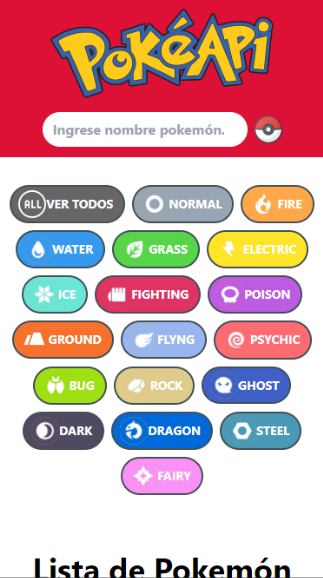
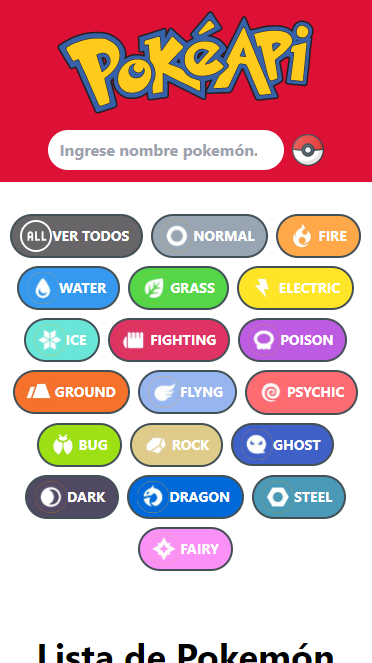
Actualizando README con nueva versión

diff --git a/src/css/estilos.css b/src/css/estilos.css
@@ -588,14 +588,6 @@ video {
   height: 15rem;
 }
 
-.h-80 {
-  height: 20rem;
-}
-
-.h-0 {
-  height: 0px;
-}
-
 .min-h-screen {
   min-height: 100vh;
 }
@@ -604,28 +596,20 @@ video {
   width: 10rem;
 }
 
-.w-60 {
-  width: 15rem;
+.w-44 {
+  width: 11rem;
 }
 
 .w-8 {
   width: 2rem;
 }
 
-.w-full {
-  width: 100%;
-}
-
-.w-44 {
-  width: 11rem;
-}
-
-.w-32 {
-  width: 8rem;
-}
-
 .w-80 {
   width: 20rem;
+}
+
+.w-full {
+  width: 100%;
 }
 
 .max-w-4xl {
@@ -650,10 +634,6 @@ video {
 
 .flex-wrap {
   flex-wrap: wrap;
-}
-
-.place-items-center {
-  place-items: center;
 }
 
 .items-center {
@@ -684,34 +664,17 @@ video {
   border-radius: 0.5rem;
 }
 
-.rounded {
-  border-radius: 0.25rem;
-}
-
 .rounded-t-lg {
   border-top-left-radius: 0.5rem;
   border-top-right-radius: 0.5rem;
-}
-
-.border-2 {
-  border-width: 2px;
 }
 
 .border {
   border-width: 1px;
 }
 
-.border-4 {
-  border-width: 4px;
-}
-
-.border-\[0\.5px\] {
-  border-width: 0.5px;
-}
-
-.border-x-2 {
-  border-left-width: 2px;
-  border-right-width: 2px;
+.border-2 {
+  border-width: 2px;
 }
 
 .border-t-2 {
@@ -734,10 +697,6 @@ video {
 .border-black {
   --tw-border-opacity: 1;
   border-color: rgb(0 0 0 / var(--tw-border-opacity));
-}
-
-.border-\[\] {
-  border-color: ;
 }
 
 .bg-\[\#0069D9\] {
@@ -913,16 +872,6 @@ video {
   line-height: 2.5rem;
 }
 
-.text-sm {
-  font-size: 0.875rem;
-  line-height: 1.25rem;
-}
-
-.text-6xl {
-  font-size: 3.75rem;
-  line-height: 1;
-}
-
 .text-8xl {
   font-size: 6rem;
   line-height: 1;
@@ -933,9 +882,9 @@ video {
   line-height: 1;
 }
 
-.text-7xl {
-  font-size: 4.5rem;
-  line-height: 1;
+.text-sm {
+  font-size: 0.875rem;
+  line-height: 1.25rem;
 }
 
 .font-bold {
@@ -952,6 +901,11 @@ video {
   color: rgb(0 0 0 / var(--tw-text-opacity));
 }
 
+.text-gray-200 {
+  --tw-text-opacity: 1;
+  color: rgb(229 231 235 / var(--tw-text-opacity));
+}
+
 .text-red-600 {
   --tw-text-opacity: 1;
   color: rgb(220 38 38 / var(--tw-text-opacity));
@@ -960,31 +914,6 @@ video {
 .text-white {
   --tw-text-opacity: 1;
   color: rgb(255 255 255 / var(--tw-text-opacity));
-}
-
-.text-neutral-400 {
-  --tw-text-opacity: 1;
-  color: rgb(163 163 163 / var(--tw-text-opacity));
-}
-
-.text-neutral-200 {
-  --tw-text-opacity: 1;
-  color: rgb(229 229 229 / var(--tw-text-opacity));
-}
-
-.text-neutral-100 {
-  --tw-text-opacity: 1;
-  color: rgb(245 245 245 / var(--tw-text-opacity));
-}
-
-.text-gray-300 {
-  --tw-text-opacity: 1;
-  color: rgb(209 213 219 / var(--tw-text-opacity));
-}
-
-.text-gray-200 {
-  --tw-text-opacity: 1;
-  color: rgb(229 231 235 / var(--tw-text-opacity));
 }
 
 @media (min-width: 768px) {

diff --git a/src/js/funciones/funciones.js b/src/js/funciones/funciones.js
@@ -167,7 +167,7 @@ async function mostrarPokemonHTML(dataRecibida) {
     'rounded-t-lg',
     'border',
     'border-solid',
-    'border-black',
+    'border-[#435056]',
     'border-2',
     'w-80',
     'flex',
@@ -287,7 +287,7 @@ async function mostrarPokemonHTMLDetallada(dataRecibida) {
     'rounded-t-lg',
     'border',
     'border-solid',
-    'border-black',
+    'border-[#435056]',
     'border-2',
     'w-80',
     'flex',
@@ -429,14 +429,6 @@ function mostrarCardObtenido(evento) {
     // función que busca por id
     buscarId(id);
   }
-}
-
-// Función para crear y devolver un nuevo elemento de spinner
-function spinner() {
-  const spinner = document.createElement('DIV');
-  // agrego clase de estilo spinner y para centrar x & y
-  spinner.classList.add('loader');
-  return spinner;
 }
 
 export {

diff --git a/README.md b/README.md
@@ -1,8 +1,10 @@
-# PROYECTO POKÉDEX JS (PokéAPI) #
+# PROYECTO POKÉDEX JS (PokéAPI)
+
 ---
+
 **Realizado: Jorge Luis Monzón Morales**
 
-El siguient proyecto consiste en consumir la api pokemón https://pokeapi.co/docs/v2#pokemon , mediante el id y poder hacer busquedas masivas, o por nombre o por tipo, contamos con 18 tipos de los 1008 pokemón que podemos filtrar en el siguiente proyecto, por parte de javascript se utilizo Fetch para manipular la solicitudes y se utilizo async/await de esta manera, las solicitudes y la creación de tarjetas se realizarán de manera secuencial, asegurando que las tarjetas se agreguen al contenedor en el orden correcto. Esto puede ayudar a controlar la sincronización y el orden de las operaciones por la parte de html y css se utilizo el framework CSS de Tailwind con sus clases de utilidades, tecnologias aplicadas:
+El siguient proyecto consiste en consumir la api pokemón https://pokeapi.co/docs/v2#pokemon , mediante el id y poder hacer busquedas masivas, o por nombre o por tipo, contamos con 18 tipos de pokemón que podemos filtrar en el siguiente proyecto, por parte de javascript se utilizo Fetch para manipular la solicitudes y se utilizo async/await de esta manera, las solicitudes y la creación de tarjetas se realizarán de manera secuencial, asegurando que las tarjetas se agreguen al contenedor en el orden correcto. Esto puede ayudar a controlar la sincronización y el orden de las operaciones por la parte de html y css se utilizo el framework CSS de Tailwind con sus clases de utilidades, tecnologias aplicadas:
 
 - HTML
 - CSS
@@ -10,26 +12,35 @@ El siguient proyecto consiste en consumir la api pokemón https://pokeapi.co/doc
 - Tailwind CSS
 - servicio a consumir(https://pokeapi.co/docs/v2#pokemon)
 
-**Modo Escritorio**
----
-![alt text](<modo_escritorio.png>)
+## **Modo Escritorio**
 
+![alt text](modo_escritorio.png)
 
-**modo Tablet**
----
+## **modo Tablet**
+
 ![alt text](modo_tablet.png)
 
+## **Modo celular**
 
-**Modo celular**
----
-![alt text](modo_celular.png)
+![alt text](modo_celular.png) ![alt text](modo_celular_2.png)
 
-**Filtro busqueda por Tipo**
----
-![alt text](<filtro_tipo.png>)
 
-**Filtro busqueda por Nombre**
----
-![alt text](<filtro_nombre.png>)
+## **Filtro busqueda por Tipo**
+
+![alt text](filtro_tipo.png)
+
+## **Filtro busqueda por Nombre**
+
+![alt text](filtro_nombre.png)
+
+## **Detalle de pokemón al dar clic en pokeball**
+
+![alt text](detalle_pokemon.png)
+
+## **Validaciones de busqueda**
+
+![alt text](validacion_1.png)
+
+![alt text](validacion_2.png)
 
 **Realizado: Jorge Luis Monzón Morales**
